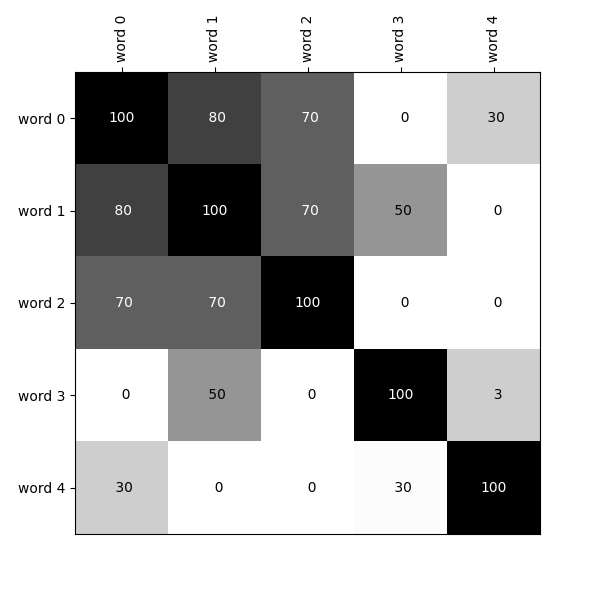
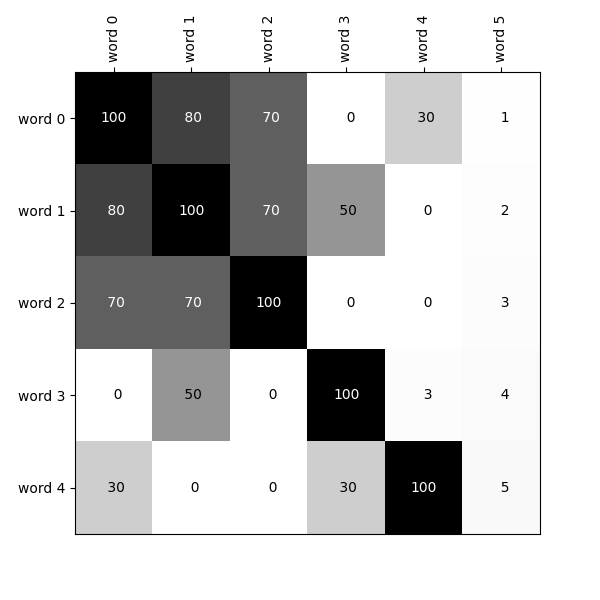
return to previous code

diff --git a/techminer/plot.py b/techminer/plot.py
@@ -111,12 +111,13 @@ class Plot:
         ... )
         >>> df
                 word 0  word 1  word 2  word 3  word 4
-        term 0     100      80      70       0      30
-        term 1      80     100      70      50       0
-        term 2      70      70     100       0       0
-        term 3       0      50       0     100      30
-        term 4      30       0       0       3     100
-        term 5       1       2       3       4       5
+        word 0     100      80      70       0      30
+        word 1      80     100      70      50       0
+        word 2      70      70     100       0       0
+        word 3       0      50       0     100      30
+        word 4      30       0       0       3     100
+        word 5       1       2       3       4       5
+
         >>> _ = Plot(df).heatmap(cmap='Greys')
         >>> plt.savefig('guide/images/plotheatmap3.png')
         
@@ -915,19 +916,3 @@ class Plot:
         plt.gca().imshow(wordcloud, interpolation="bilinear")
         plt.gca().axis("off")
         return plt.gca()
-
-    def __getitem__(self, key):
-        return DataFrame(super()[key])
-
-    def _getitem_bool_array(self, key):
-        return DataFrame(super()[key])
-
-    def _getitem_multilevel(self, key):
-        return DataFrame(super()._getitem_multilevel(key))
-
-    def _get_column_array(self, i):
-        return DataFrame(super()._get_column_array(i))
-
-    def assign(self, **kwargs):
-        return DataFrame(super().assign(**kwargs))
-

diff --git a/techminer/dataframe.py b/techminer/dataframe.py
@@ -2941,3 +2941,45 @@ class DataFrame(pd.DataFrame):
         else:
             df[colname] = self[column].map(lambda x: x in items)
         return DataFrame(df)
+
+    # def __getitem__(self, key):
+    #     return DataFrame(super().__getitem__(key))
+
+    # def _getitem_bool_array(self, key):
+    #     return DataFrame(super()._getitem_bool_array(key))
+
+    # def _getitem_multilevel(self, key):
+    #     return DataFrame(super()._getitem_multilevel(key))
+
+    # def _get_column_array(self, i):
+    #     return DataFrame(super()._get_column_array(i))
+
+    # def assign(self, **kwargs):
+    #     return DataFrame(super().assign(**kwargs))
+
+    # def test(self):
+    #     """
+
+
+    #     >>> import pandas as pd
+    #     >>> pd = pd.DataFrame(
+    #     ...     {
+    #     ...         "Authors": "author 3,author 1,author 0,author 2".split(","),
+    #     ...         "Num Documents": [10, 5, 2, 1],
+    #     ...         "ID": list(range(4)),
+    #     ...     }
+    #     ... )
+    #     >>> pd = DataFrame(pd)
+    #     >>> type(pd)
+    #     <class 'techminer.dataframe.DataFrame'>
+
+    
+    #     >>> type(pd[[True, True, False, False]])
+    #     <class 'pandas.core.frame.DataFrame'>
+
+    #     # >>> pd[[True, True, False, False]]
+        
+
+    #     """
+
+    #     pass
